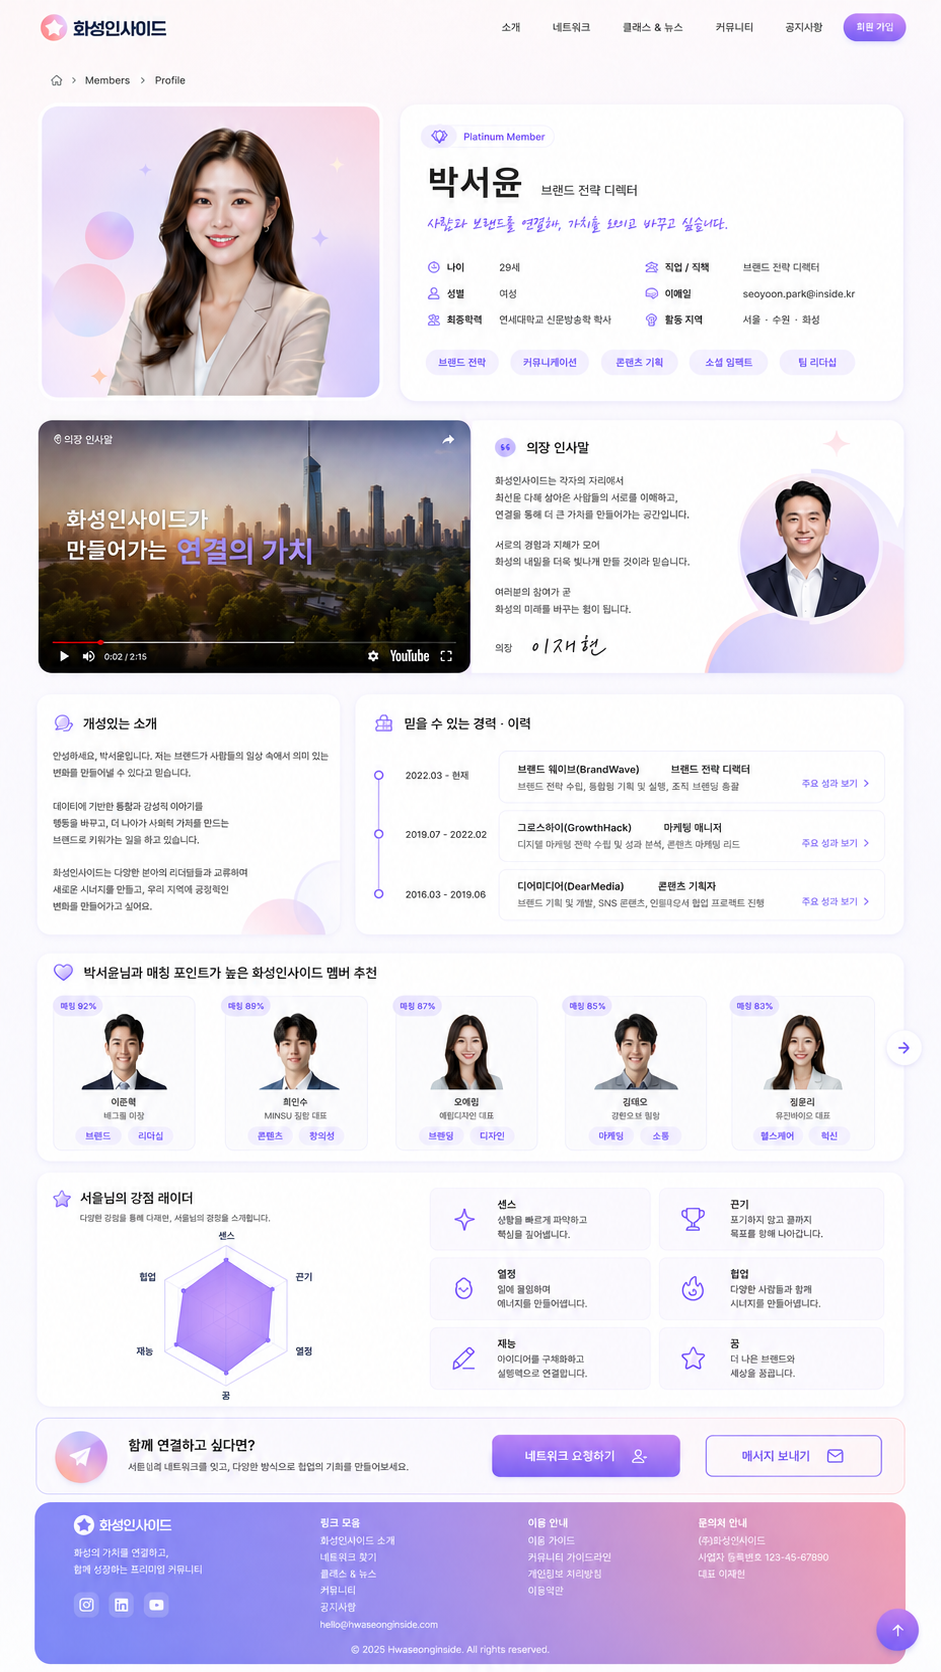
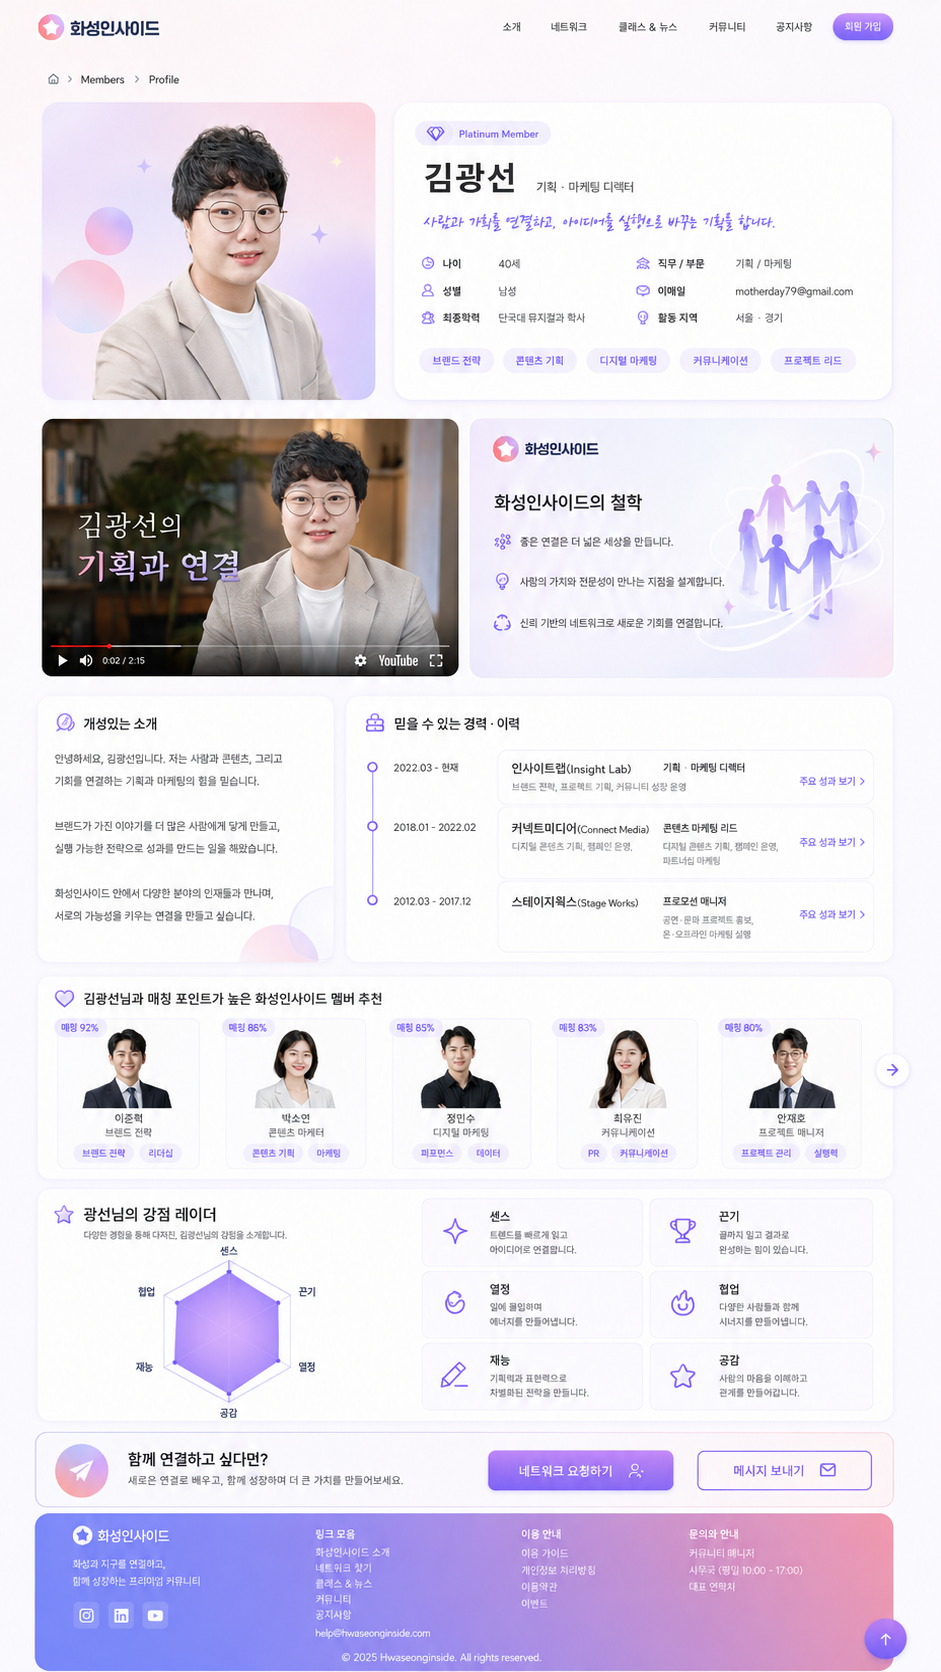
Add files via upload

diff --git a/app/notice-news/[id]/page.js b/app/notice-news/[id]/page.js
@@ -36,24 +36,24 @@ export default async function NoticeDetail({ params }) {
         <Spot href="/notice-news/1" label="상세" x={210} y={66} w={45} h={23} />
 
         {/* CTA inside article */}
-        <Spot href="/members/2" label="참가 신청하기" x={645} y={1171} w={166} h={43} round="10px" />
+        <Spot href="/members/2" label="참가 신청하기" x={683} y={1299} w={164} h={41} round="10px" />
 
         {/* related news */}
-        <Spot href="/notice-news" label="관련 공지 전체보기" x={790} y={1240} w={65} h={27} />
-        <Spot href="/notice-news/2" label="관련 공지 2025 화성 어워즈 후보 공모" x={83} y={1269} w={242} h={143} round="16px" />
-        <Spot href="/notice-news/3" label="관련 공지 신규 그룹장 모집 안내" x={342} y={1269} w={240} h={143} round="16px" />
-        <Spot href="/notice-news/4" label="관련 공지 4월 클래스 일정 안내" x={599} y={1269} w={240} h={143} round="16px" />
-        <Spot href="/notice-news" label="관련 공지 다음" x={824} y={1296} w={34} h={40} round="18px" />
+        <Spot href="/notice-news" label="관련 공지 전체보기" x={860} y={1396} w={55} h={24} />
+        <Spot href="/notice-news/2" label="관련 공지 2025 화성 어워즈 후보 공모" x={82} y={1416} w={250} h={151} round="16px" />
+        <Spot href="/notice-news/3" label="관련 공지 신규 그룹장 모집 안내" x={345} y={1416} w={250} h={151} round="16px" />
+        <Spot href="/notice-news/4" label="관련 공지 4월 클래스 일정 안내" x={608} y={1416} w={250} h={151} round="16px" />
+        <Spot href="/notice-news" label="관련 공지 다음" x={866} y={1452} w={31} h={38} round="18px" />
 
         {/* back to list */}
-        <Spot href="/notice-news" label="목록으로 돌아가기" x={365} y={1418} w={188} h={39} round="18px" />
+        <Spot href="/notice-news" label="목록으로 돌아가기" x={365} y={1586} w={213} h={37} round="18px" />
 
         {/* footer */}
-        <Spot href="/" label="푸터 화성인사이드 홈" x={31} y={1473} w={235} h={150} round="18px" />
-        <Spot href="/#about" label="푸터 링크 모음" x={305} y={1473} w={165} h={145} />
-        <Spot href="/#about" label="푸터 이용 안내" x={510} y={1473} w={150} h={135} />
-        <Spot href="/#about" label="푸터 문의 안내" x={690} y={1473} w={160} h={128} />
-        <Spot href="#" label="맨 위로" x={861} y={1570} w={50} h={50} round="50%" />
+        <Spot href="/" label="푸터 화성인사이드 홈" x={31} y={1630} w={185} h={42} round="18px" />
+        <Spot href="/#about" label="푸터 링크 모음" x={317} y={1630} w={138} h={40} />
+        <Spot href="/#about" label="푸터 이용 안내" x={542} y={1630} w={126} h={40} />
+        <Spot href="/#about" label="푸터 문의 안내" x={734} y={1630} w={126} h={40} />
+        <Spot href="#" label="맨 위로" x={890} y={1611} w={43} h={43} round="50%" />
       </div>
     </main>
   );

diff --git a/app/notice-news/page.js b/app/notice-news/page.js
@@ -62,15 +62,15 @@ export default function NoticeNewsPage() {
         <Spot href="/notice-news" label="다음 페이지" x={590} y={1369} w={29} h={31} round="10px" />
 
         {/* CTA */}
-        <Spot href="/members/2" label="네트워크 요청하기" x={506} y={1410} w={182} h={48} round="12px" />
-        <Spot href="/members/2" label="메시지 보내기" x={704} y={1410} w={177} h={48} round="12px" />
+        <Spot href="/members/2" label="네트워크 요청하기" x={634} y={1466} w={180} h={48} round="12px" />
+        <Spot href="/members/2" label="메시지 보내기" x={831} y={1466} w={143} h={48} round="12px" />
 
         {/* footer */}
-        <Spot href="/" label="푸터 화성인사이드 홈" x={43} y={1488} w={210} h={142} round="18px" />
-        <Spot href="/#about" label="푸터 링크 모음" x={310} y={1488} w={155} h={150} />
-        <Spot href="/#about" label="푸터 이용 안내" x={522} y={1488} w={145} h={142} />
-        <Spot href="/#about" label="푸터 문의 안내" x={693} y={1488} w={170} h={132} />
-        <Spot href="#" label="맨 위로" x={861} y={1580} w={50} h={50} round="50%" />
+        <Spot href="/" label="푸터 화성인사이드 홈" x={39} y={1534} w={187} h={111} round="18px" />
+        <Spot href="/#about" label="푸터 링크 모음" x={318} y={1535} w={139} h={119} />
+        <Spot href="/#about" label="푸터 이용 안내" x={537} y={1535} w={128} h={108} />
+        <Spot href="/#about" label="푸터 문의 안내" x={732} y={1535} w={129} h={105} />
+        <Spot href="#" label="맨 위로" x={887} y={1609} w={45} h={45} round="50%" />
       </div>
     </main>
   );

diff --git a/app/members/[id]/page.js b/app/members/[id]/page.js
@@ -38,7 +38,7 @@ export default async function Profile({ params }) {
       <div className="masterBoard detailMasterBoard">
         <img
           src="/assets/master/detail-master-v1.png"
-          alt="화성인사이드 박서윤 프로필 상세페이지"
+          alt="화성인사이드 김광선 프로필 상세페이지"
           className="masterImage"
         />
 

diff --git a/README.md b/README.md
@@ -1,28 +1,21 @@
-# Hwaseong Inside - News master web v1.1
+# Hwaseong Inside - real content v1
 
-이번 버전은 기존 메인/상세 마스터 방식 그대로,
-공지 & 뉴스 섹션을 **웹마스터 이미지 + 완전 투명 클릭맵** 구조로 추가한 풀파일입니다.
+이번 버전은 기존 메인/상세/공지 마스터 구조를 유지한 채, 실제 인물 및 실제 문구 일부를 반영한 웹 적용본입니다.
 
-## 추가된 화면
-- `/notice-news` : 공지 & 뉴스 포털/목록 페이지
-- `/notice-news/[id]` : 공지 & 뉴스 상세 페이지
+## 반영된 실제 콘텐츠
+- 메인페이지 의장 인사 영역: **박인식 / 의장·영화감독** 반영
+- 메인페이지 Featured 10 중 1번 멤버: **김광선 / 기획·마케팅** 반영
+- 멤버 상세페이지: **김광선 프로필 마스터 이미지**로 교체
+- 공지&뉴스 목록/상세: 기존 승인 마스터 유지
 
-## 반영 사항
-- 메인페이지 공지 카드 3개 → 각각 공지 상세로 이동
-- 메인페이지 `전체보기` → `/notice-news`
-- 멤버 상세 상단 `클래스 & 뉴스`, `공지사항` → `/notice-news`
-- 공지 목록/상세는 모두 승인용 마스터 이미지 기반
-- 클릭영역은 모두 투명 (hover 박스 없음)
+## 구조
+- `/` : 메인 마스터 이미지 + 투명 클릭맵
+- `/members/[id]` : 김광선 프로필 마스터 이미지 + 투명 클릭맵
+- `/notice-news` : 공지&뉴스 목록 마스터 이미지 + 투명 클릭맵
+- `/notice-news/[id]` : 공지 상세 마스터 이미지 + 투명 클릭맵
 
 ## 적용 방법
 1. 압축 해제
 2. GitHub `hwaseong-inside` 저장소 루트에 전체 덮어쓰기
 3. Commit changes
 4. Vercel 자동 배포 확인
-
-
-## v1.1 cross-check fixes
-- 공지 목록 하단 CTA 두 버튼 클릭좌표 정밀 보정
-- 공지 목록 푸터/맨위로 클릭좌표 보정
-- 공지 상세 참가신청/관련공지/목록복귀/푸터/맨위로 클릭좌표 보정
-- 마스터 이미지는 변경 없음
